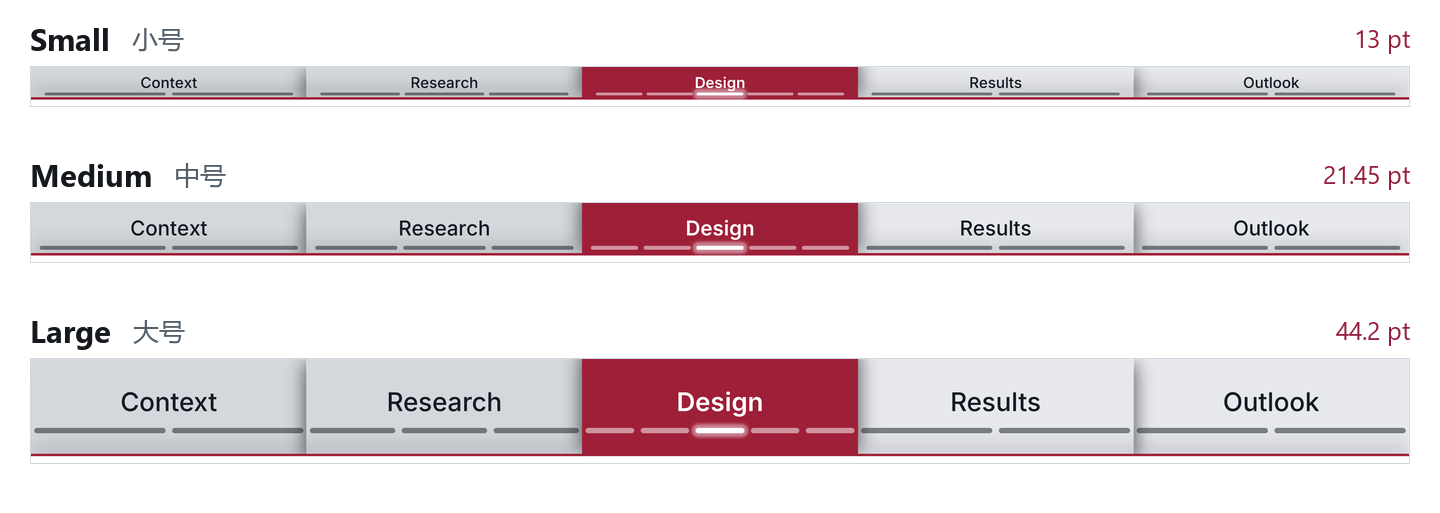
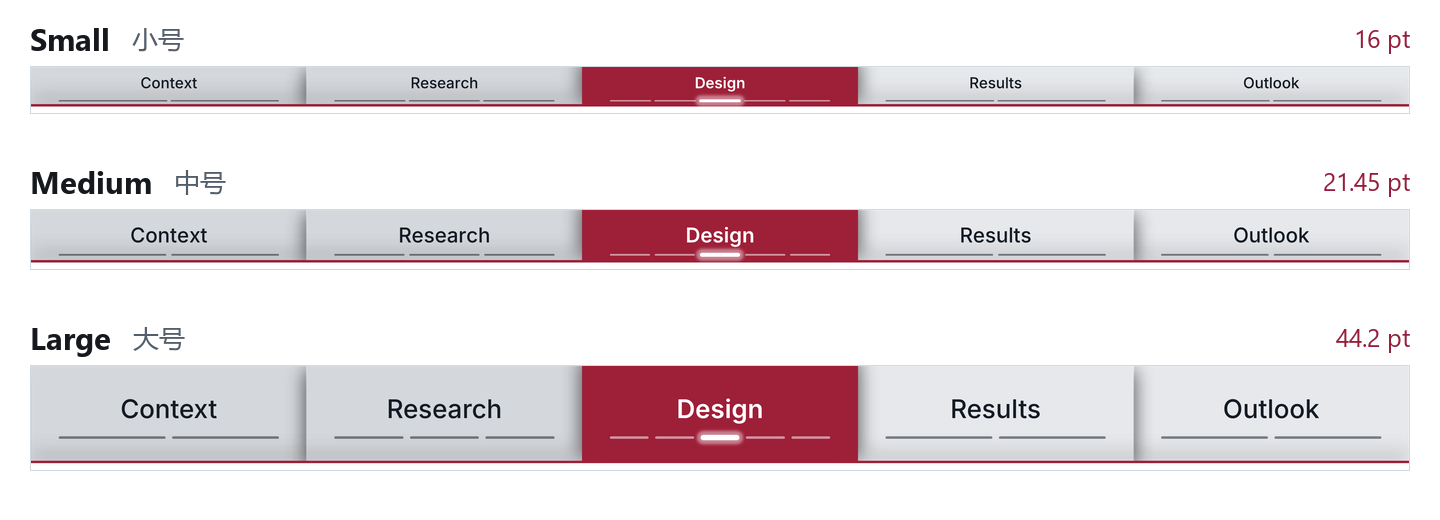
Give Crimson Layers inset markers and clearance for small titles

diff --git a/english_sources.py b/english_sources.py
@@ -44,7 +44,7 @@ def prepare_english(
             continue
         source = ENCODED_TEXT.sub(translate_vba, module.read_text("utf-8-sig"))
         if module.name == "mdlOptionsHandling.bas":
-            source = source.replace('" CN.11.5 32b/64b"', '" EN.11.5 32b/64b"')
+            source = source.replace('" CN.11.6 32b/64b"', '" EN.11.6 32b/64b"')
         if module.name == "basGeneral.bas":
             source = source.replace('family = "Microsoft YaHei"',
                                     'family = "Segoe UI"')
@@ -60,7 +60,7 @@ def prepare_english(
     xml.write(target / "customUI14.xml", encoding="UTF-8", xml_declaration=True)
 
     catalog = json.loads((project_dir / "styles.json").read_text("utf-8"))
-    catalog["version"] = "EN.11.5"
+    catalog["version"] = "EN.11.6"
     for style in catalog["styles"]:
         for field in ("name", "family", "description"):
             style[field] = ribbon_text[style[field]]

diff --git a/build_package.py b/build_package.py
@@ -314,7 +314,7 @@ def main():
 
         source_dir = prepare_english(source_dir, ROOT, args.output_dir / "en")
     version = args.version_token or (
-        "EN11_5" if args.language == "en" else "CN11_5"
+        "EN11_6" if args.language == "en" else "CN11_6"
     )
     base_dir = RESOURCE_ROOT / "original/ProgressIndicators_v1960_3264b"
     reports = []

diff --git a/README.md b/README.md
@@ -9,7 +9,7 @@
   <sub><a href="https://github.com/AdamWilsonLab/progress_indicators">Upstream GitHub repository (AdamWilsonLab/progress_indicators)</a> | <a href="https://datenbank-projekt.de/projekte/progress-indicator-powerpoint-2010-2013-2016-32-and-64-bit-windows-mac">Olaf Nöhring's project page</a></sub>
 </p>
 
-<p align="center"><sub>PowerPoint for Windows &nbsp;|&nbsp; EN.11.5 / CN.11.5</sub></p>
+<p align="center"><sub>PowerPoint for Windows &nbsp;|&nbsp; EN.11.6 / CN.11.6</sub></p>
 
 <img src="docs/assets/native/crimson-layers.webp" alt="Five section tabs span the slide. Design is red, and its third marker glows white." width="100%" />
 
@@ -38,8 +38,8 @@ Download the ZIP for the language you want on the PowerPoint ribbon. Both packag
 
 | Download | File to open in PowerPoint |
 | --- | --- |
-| <a href="https://github.com/GH-X-ST/PowerPoint-Progress-Indicators/releases/download/EN.11.5/ProgressIndicators-EN.11.5.zip"><picture><source media="(prefers-color-scheme: dark)" srcset="docs/assets/badges/en-dark.svg" /><source media="(prefers-color-scheme: light)" srcset="docs/assets/badges/en-light.svg" /><img src="docs/assets/badges/en-light.svg" alt="Download the English edition (ZIP)" width="164" /></picture></a> | `ProgressIndicators_v1960_3264b_SB_EN11_5.ppam` |
-| <a href="https://github.com/GH-X-ST/PowerPoint-Progress-Indicators/releases/download/CN.11.5/ProgressIndicators-CN.11.5.zip"><picture><source media="(prefers-color-scheme: dark)" srcset="docs/assets/badges/cn-dark.svg" /><source media="(prefers-color-scheme: light)" srcset="docs/assets/badges/cn-light.svg" /><img src="docs/assets/badges/cn-light.svg" alt="Download the Simplified Chinese edition (ZIP)" width="164" /></picture></a> | `ProgressIndicators_v1960_3264b_SB_CN11_5.ppam` |
+| <a href="https://github.com/GH-X-ST/PowerPoint-Progress-Indicators/releases/download/EN.11.6/ProgressIndicators-EN.11.6.zip"><picture><source media="(prefers-color-scheme: dark)" srcset="docs/assets/badges/en-dark.svg" /><source media="(prefers-color-scheme: light)" srcset="docs/assets/badges/en-light.svg" /><img src="docs/assets/badges/en-light.svg" alt="Download the English edition (ZIP)" width="164" /></picture></a> | `ProgressIndicators_v1960_3264b_SB_EN11_6.ppam` |
+| <a href="https://github.com/GH-X-ST/PowerPoint-Progress-Indicators/releases/download/CN.11.6/ProgressIndicators-CN.11.6.zip"><picture><source media="(prefers-color-scheme: dark)" srcset="docs/assets/badges/cn-dark.svg" /><source media="(prefers-color-scheme: light)" srcset="docs/assets/badges/cn-light.svg" /><img src="docs/assets/badges/cn-light.svg" alt="Download the Simplified Chinese edition (ZIP)" width="164" /></picture></a> | `ProgressIndicators_v1960_3264b_SB_CN11_6.ppam` |
 
 1. Extract the ZIP. In PowerPoint for Windows, open **File > Options > Add-ins**.
 2. At the bottom of the dialog, set **Manage** to **PowerPoint Add-ins** and click **Go**.
@@ -80,12 +80,12 @@ With **Equal Sections**, each of the five sections below gets a fifth of the bar
 
 ### Choose a size and marker shape
 
-Each preset comes in **Small**, **Medium**, and **Large**. With a top or bottom bar, Small uses 7 pt titles in a 13 pt panel. The markers are half the height of the Large markers and fill the middle 90% of the section. For a left or right bar, adjust the sidebar width separately.
+Each preset comes in **Small**, **Medium**, and **Large**. With a top or bottom bar, Small uses 7 pt titles. Its panel is 13 pt high in most presets and 16 pt in Crimson Layers, where the extra space separates letters such as g from the markers. The markers are half the height of the Large markers. They fill the middle 90% of the section in most presets. Crimson Layers uses the middle 80% at every size. For a left or right bar, adjust the sidebar width separately.
 
 <picture>
   <source media="(prefers-color-scheme: dark)" srcset="docs/assets/native/sizes-dark.webp" />
   <source media="(prefers-color-scheme: light)" srcset="docs/assets/native/sizes-light.webp" />
-  <img src="docs/assets/native/sizes-light.webp" alt="Crimson Layers in Small (13 pt), Medium (21.45 pt), and Large (44.2 pt). Design is the current section in all three." width="100%" />
+  <img src="docs/assets/native/sizes-light.webp" alt="Crimson Layers in Small (16 pt), Medium (21.45 pt), and Large (44.2 pt). Design is the current section in all three." width="100%" />
 </picture>
 
 <details>
@@ -171,7 +171,7 @@ On a top bar, **Cropped Backdrop Text (Top) > Backdrop Text for Other Sections**
   <img src="docs/assets/native/surfaces-light.webp" alt="Three bars show separate panel shadows, large cropped names behind Research and Results, and a gradient with teal before Design and brown after." width="100%" />
 </picture>
 
-**Crimson Layers** joins the current section to a 1 pt strip. Where two sections meet, the one closer to the current section casts its shadow on the other. Only the current slide marker glows. Every other marker is 70% transparent, including the others in the current section. To adjust the strip or soften the shadows, open **Layered Navigation**. To match the lettering in the screenshot, install Inter SemiBold for the current section and Inter Medium for the others on the computers used to edit and present the slides. [Inter fonts](https://rsms.me/inter/)
+**Crimson Layers** joins the current section to a 1 pt strip. Where two sections meet, the one closer to the current section casts its shadow on the other. The current slide has a thicker marker with a glow. All other slides have thin markers at 70% transparency, including those in the current section. To adjust the strip or soften the shadows, open **Layered Navigation**. To match the lettering in the screenshot, install Inter SemiBold for the current section and Inter Medium for the others on the computers used to edit and present the slides. [Inter fonts](https://rsms.me/inter/)
 
 <details>
 <summary>Use colors from the presentation theme</summary>
@@ -481,12 +481,12 @@ uv pip install --python .venv\Scripts\python.exe -r requirements-build.txt
 .\.venv\Scripts\python.exe build_package.py --language en --output-dir rebuild --report rebuild/package-validation.json
 ```
 
-The build creates `rebuild/ProgressIndicators_v1960_3264b_SB_EN11_5.pptm`. The English VBA and Ribbon XML are in `rebuild/en/source/` and the translated preset catalog is in `rebuild/en/styles.json`.
+The build creates `rebuild/ProgressIndicators_v1960_3264b_SB_EN11_6.pptm`. The English VBA and Ribbon XML are in `rebuild/en/source/` and the translated preset catalog is in `rebuild/en/styles.json`.
 
 To package the `.ppam`, continue in the same PowerShell window. This step uses desktop PowerPoint and needs permission to run the presentation's macros. Choose a new output file.
 
 ```powershell
-$name = 'ProgressIndicators_v1960_3264b_SB_EN11_5'
+$name = 'ProgressIndicators_v1960_3264b_SB_EN11_6'
 $sourceDeck = (Resolve-Path "rebuild\$name.pptm").Path
 $releaseDir = Join-Path (Get-Location) 'rebuild\distribution'
 $ppam = Join-Path $releaseDir "$name.ppam"

diff --git a/README.zh-CN.md b/README.zh-CN.md
@@ -9,7 +9,7 @@
   <sub><a href="https://github.com/AdamWilsonLab/progress_indicators">上游 GitHub 仓库（AdamWilsonLab/progress_indicators）</a> · <a href="https://datenbank-projekt.de/projekte/progress-indicator-powerpoint-2010-2013-2016-32-and-64-bit-windows-mac">Olaf Nöhring 的项目页</a></sub>
 </p>
 
-<p align="center"><sub>Windows 桌面版 PowerPoint &nbsp;|&nbsp; CN.11.5 / EN.11.5</sub></p>
+<p align="center"><sub>Windows 桌面版 PowerPoint &nbsp;|&nbsp; CN.11.6 / EN.11.6</sub></p>
 
 <img src="docs/assets/native/crimson-layers.webp" alt="深红层叠进度条：当前在 Design 章的第 3 页，章名下方的第三个页标发亮。" width="100%" />
 
@@ -42,8 +42,8 @@
 
 | 下载 | 解压后在 PowerPoint 中选择 |
 | --- | --- |
-| <a href="https://github.com/GH-X-ST/PowerPoint-Progress-Indicators/releases/download/CN.11.5/ProgressIndicators-CN.11.5.zip"><picture><source media="(prefers-color-scheme: dark)" srcset="docs/assets/badges/cn-dark.svg" /><source media="(prefers-color-scheme: light)" srcset="docs/assets/badges/cn-light.svg" /><img src="docs/assets/badges/cn-light.svg" alt="下载 CN.11.5 压缩包" width="164" /></picture></a> | `ProgressIndicators_v1960_3264b_SB_CN11_5.ppam` |
-| <a href="https://github.com/GH-X-ST/PowerPoint-Progress-Indicators/releases/download/EN.11.5/ProgressIndicators-EN.11.5.zip"><picture><source media="(prefers-color-scheme: dark)" srcset="docs/assets/badges/en-dark.svg" /><source media="(prefers-color-scheme: light)" srcset="docs/assets/badges/en-light.svg" /><img src="docs/assets/badges/en-light.svg" alt="下载 EN.11.5 压缩包" width="164" /></picture></a> | `ProgressIndicators_v1960_3264b_SB_EN11_5.ppam` |
+| <a href="https://github.com/GH-X-ST/PowerPoint-Progress-Indicators/releases/download/CN.11.6/ProgressIndicators-CN.11.6.zip"><picture><source media="(prefers-color-scheme: dark)" srcset="docs/assets/badges/cn-dark.svg" /><source media="(prefers-color-scheme: light)" srcset="docs/assets/badges/cn-light.svg" /><img src="docs/assets/badges/cn-light.svg" alt="下载 CN.11.6 压缩包" width="164" /></picture></a> | `ProgressIndicators_v1960_3264b_SB_CN11_6.ppam` |
+| <a href="https://github.com/GH-X-ST/PowerPoint-Progress-Indicators/releases/download/EN.11.6/ProgressIndicators-EN.11.6.zip"><picture><source media="(prefers-color-scheme: dark)" srcset="docs/assets/badges/en-dark.svg" /><source media="(prefers-color-scheme: light)" srcset="docs/assets/badges/en-light.svg" /><img src="docs/assets/badges/en-light.svg" alt="下载 EN.11.6 压缩包" width="164" /></picture></a> | `ProgressIndicators_v1960_3264b_SB_EN11_6.ppam` |
 
 1. 在 Windows 桌面版 PowerPoint 中打开 **文件 > 选项 > 加载项**。
 2. 在窗口底部的 **管理** 列表中选择 **PowerPoint 加载项**，点击 **转到**。如果列表里已启用旧版或另一种语言的版本，先取消勾选。
@@ -92,12 +92,12 @@
 
 ### 大、中、小号
 
-在预设名称下选择尺寸。以 **深红层叠** 为例，放在页面顶部或底部时，小号高 13 pt，中号高 21.45 pt，大号高 44.2 pt。所有预设的小号都用 7 pt 的章名，页标厚度是同款大号的一半，左右各留出章宽的 5%。
+在预设名称下选择尺寸。以 **深红层叠** 为例，放在页面顶部或底部时，小号高 16 pt，中号高 21.45 pt，大号高 44.2 pt。小号章名与页标之间多留了 3 pt，像 g 这样向下伸出的字母也有空隙。所有预设的小号都用 7 pt 的章名，页标厚度是同款大号的一半。大多数预设的小号页标两端各留 5% 的章宽，深红层叠的三种尺寸都各留 10%。
 
 <picture>
   <source media="(prefers-color-scheme: dark)" srcset="docs/assets/native/sizes-dark.webp" />
   <source media="(prefers-color-scheme: light)" srcset="docs/assets/native/sizes-light.webp" />
-  <img src="docs/assets/native/sizes-light.webp" alt="深红层叠横向放置。小号高 13 pt，中号高 21.45 pt，大号高 44.2 pt。" width="100%" />
+  <img src="docs/assets/native/sizes-light.webp" alt="深红层叠横向放置。小号高 16 pt，中号高 21.45 pt，大号高 44.2 pt。" width="100%" />
 </picture>
 
 <details>
@@ -142,7 +142,7 @@
   <img src="docs/assets/native/surfaces-light.webp" alt="独立章节阴影、裁切背景字、两侧渐变的对照。背景字示例中 Research 和 Results 的大字只显示在各自色块里。" width="100%" />
 </picture>
 
-页首的 **深红层叠** 将当前章和底部的红色连接条连成一体。相邻的色块逐层相叠，越靠近当前章就越靠前。当前章名用 Inter SemiBold，其他章名用 Inter Medium。只有当前页的标记发光，其余标记的透明度为 70%。在制作和放映电脑上都安装这两种字重，才能看到预设原有的字形。[下载 Inter](https://rsms.me/inter/)
+页首的 **深红层叠** 将当前章和底部的红色连接条连成一体。相邻的色块逐层相叠，越靠近当前章就越靠前。当前章名用 Inter SemiBold，其他章名用 Inter Medium。当前页的标记较厚，带有辉光。其余页标都是细条，透明度为 70%，包括当前章内的其他页。在制作和放映电脑上都安装这两种字重，才能看到预设原有的字形。[下载 Inter](https://rsms.me/inter/)
 
 <details>
 <summary>给当前章加一道线，或在相邻章节之间加分隔线</summary>
@@ -501,10 +501,10 @@ VBA 模块、窗体和功能区 XML 在 `source/` 中。修改预设参数时，
 ```powershell
 uv venv --python 3.12 .venv
 uv pip install --python .venv\Scripts\python.exe -r requirements-build.txt
-.\.venv\Scripts\python.exe build_package.py --output-dir rebuild --version-token CN11_5 --report rebuild\package-validation.json
+.\.venv\Scripts\python.exe build_package.py --output-dir rebuild --version-token CN11_6 --report rebuild\package-validation.json
 ```
 
-输出文件是 `rebuild/ProgressIndicators_v1960_3264b_SB_CN11_5.pptm`。要得到可安装的 `.ppam`，用发布脚本调用 Windows 桌面版 PowerPoint 另存这份文稿。[中文版构建与发布说明](BUILD_zh-CN.txt)
+输出文件是 `rebuild/ProgressIndicators_v1960_3264b_SB_CN11_6.pptm`。要得到可安装的 `.ppam`，用发布脚本调用 Windows 桌面版 PowerPoint 另存这份文稿。[中文版构建与发布说明](BUILD_zh-CN.txt)
 
 <a id="license"></a>
 <a id="许可证与署名"></a>

diff --git a/THIRD_PARTY_NOTICES.en.md b/THIRD_PARTY_NOTICES.en.md
@@ -6,6 +6,6 @@ This project is based on Progress Indicator 1.960. Its MIT License preserves the
 
 ## FatCow Farm-Fresh Web Icons
 
-Copyright (C) 2009-2014 FatCow Web Hosting. The upstream author credits FatCow for most of the Ribbon icons. EN.11.5 includes the icons embedded in the upstream PowerPoint templates. FatCow's Farm-Fresh Web Icons use the **Creative Commons Attribution 3.0 United States (CC BY 3.0 US)** license. [FatCow icon page](http://www.fatcow.com/free-icons) | [CC BY 3.0 US legal code](https://creativecommons.org/licenses/by/3.0/us/legalcode)
+Copyright (C) 2009-2014 FatCow Web Hosting. The upstream author credits FatCow for most of the Ribbon icons. EN.11.6 includes the icons embedded in the upstream PowerPoint templates. FatCow's Farm-Fresh Web Icons use the **Creative Commons Attribution 3.0 United States (CC BY 3.0 US)** license. [FatCow icon page](http://www.fatcow.com/free-icons) | [CC BY 3.0 US legal code](https://creativecommons.org/licenses/by/3.0/us/legalcode)
 
 FatCow's original terms describe use in personal and commercial software, websites, and templates and request a link to the icon source in the software or website credits. They also list restrictions on reselling, sublicensing, renting, transferring, or otherwise making the icons available for others to use. [Archived FatCow terms of use](https://web.archive.org/web/20190416064342/https://www.fatcow.com/free-icons) | [Mirror of the notice distributed with the icon set](https://raw.githubusercontent.com/gammasoft/fatcow/master/readme-fatcow.txt)

diff --git a/THIRD_PARTY_NOTICES.md b/THIRD_PARTY_NOTICES.md
@@ -6,6 +6,6 @@
 
 ## FatCow Farm-Fresh Web Icons
 
-© 2009–2014 FatCow Web Hosting. 上游作者说明，功能区的大部分图标取自 FatCow。CN.11.5 沿用了上游模板中嵌入的图标。FatCow 的 Farm-Fresh Web Icons 使用 **Creative Commons Attribution 3.0 United States (CC BY 3.0 US)** 许可。[FatCow 图标原页](http://www.fatcow.com/free-icons) · [许可全文](https://creativecommons.org/licenses/by/3.0/us/legalcode)
+© 2009–2014 FatCow Web Hosting. 上游作者说明，功能区的大部分图标取自 FatCow。CN.11.6 沿用了上游模板中嵌入的图标。FatCow 的 Farm-Fresh Web Icons 使用 **Creative Commons Attribution 3.0 United States (CC BY 3.0 US)** 许可。[FatCow 图标原页](http://www.fatcow.com/free-icons) · [许可全文](https://creativecommons.org/licenses/by/3.0/us/legalcode)
 
 FatCow 原网页说明，图标可用于个人及商业软件、网站和模板，并要求在软件或网站的致谢处链接图标来源。同一页还列明不得转售、再许可、出租、转让图标，或以其他方式提供图标供人使用。[FatCow 官网存档中的 Terms of Use](https://web.archive.org/web/20190416064342/https://www.fatcow.com/free-icons) · [图标包随附说明的镜像](https://raw.githubusercontent.com/gammasoft/fatcow/master/readme-fatcow.txt)
